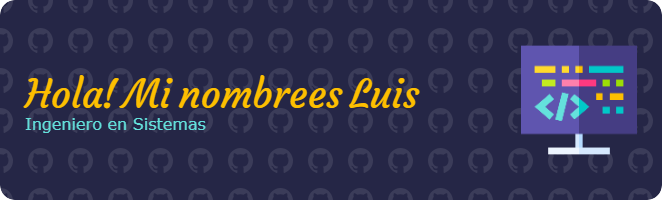
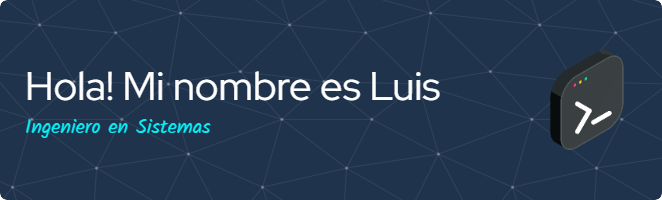
Corregir Readme

Changed region(s): [[0.0, 0.09, 1.0, 0.87], [0.0, 0.93, 1.0, 1.0], [0.0, 0.0, 1.0, 0.09]]

diff --git a/README.md b/README.md
@@ -1,3 +1,5 @@
+![Header](./Sources/github-header-image.png)
+
 <h1 align="center">Hola mi nombre es Luis</h1>
 <div align="center">
   <h3>
